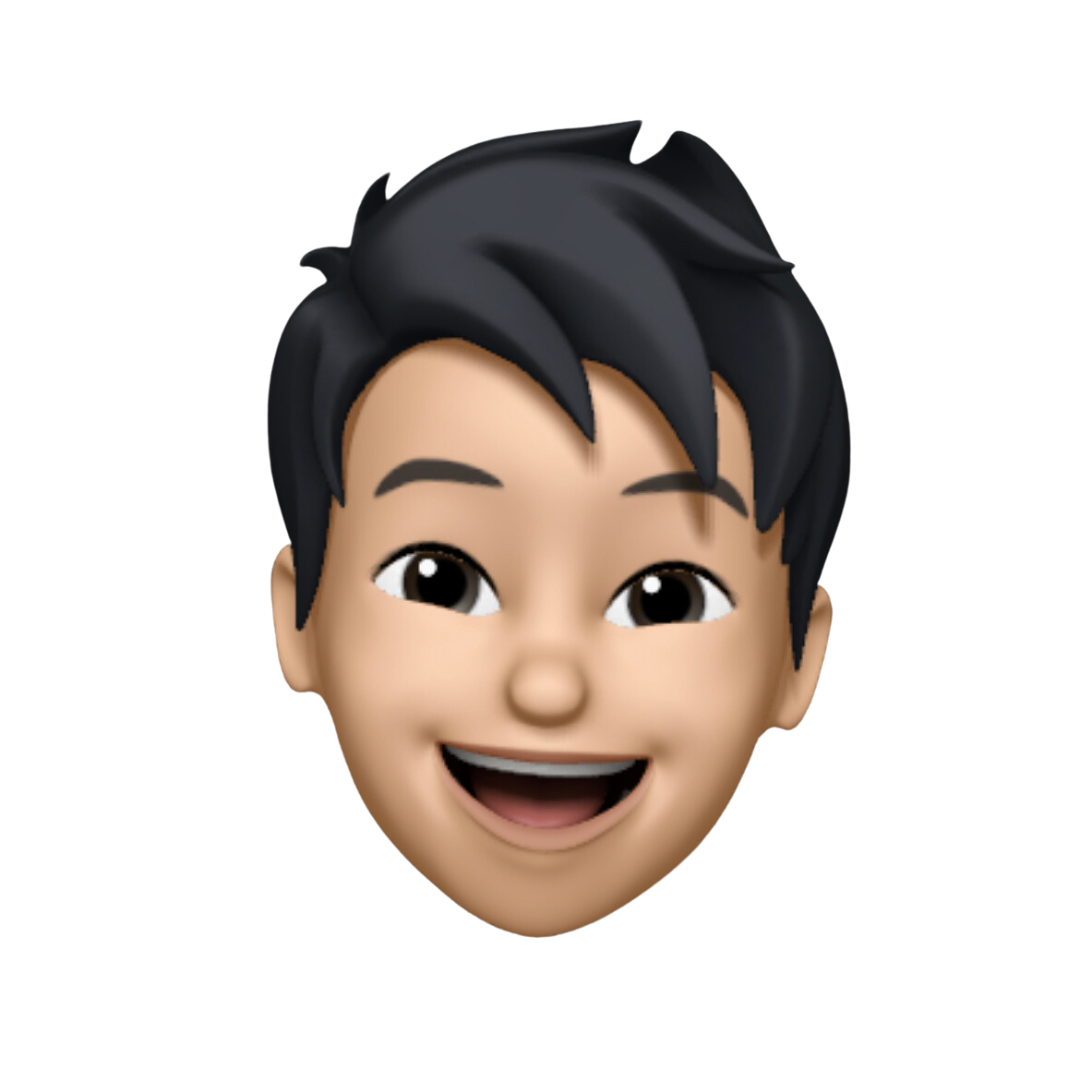
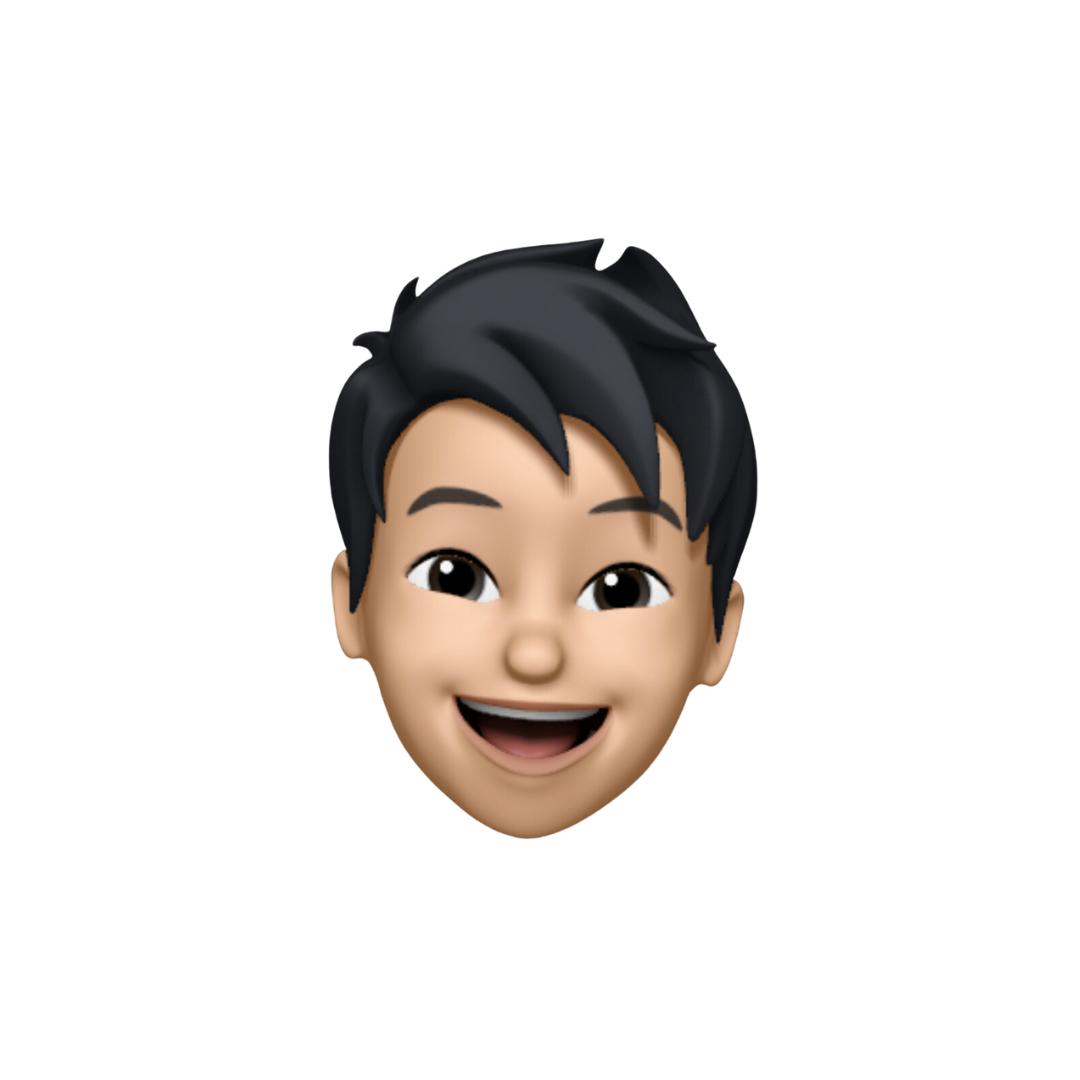
memojis fixed

Changed region(s): [[0.2444, 0.0917, 0.7944, 0.8861]]

diff --git a/src/images/Images.tsx b/src/images/Images.tsx
@@ -76,7 +76,7 @@ import Keith from "./Team/keith.png";
 import Kevin from "./Team/kevin.png";
 import Lauren from "./Team/lauren.png";
 import Lindsey from "./Team/lindsey.png";
-import MaggieFu from "./Team/maggie (log).png";
+import MaggieFu from "./Team/maggie fu.png";
 import Maggie from "./Team/maggie.png";
 import Marcella from "./Team/marcella.png";
 import Matt from "./Team/matt.png";

diff --git a/src/components/sections/Team.tsx b/src/components/sections/Team.tsx
@@ -44,7 +44,6 @@ const Person: AnyStyledComponent = styled.a`
 
 const ProfilePic: AnyStyledComponent = styled.img`
   width: 20%;
-  padding: 5px;
 `;
 
 const Name: AnyStyledComponent = styled.div`
